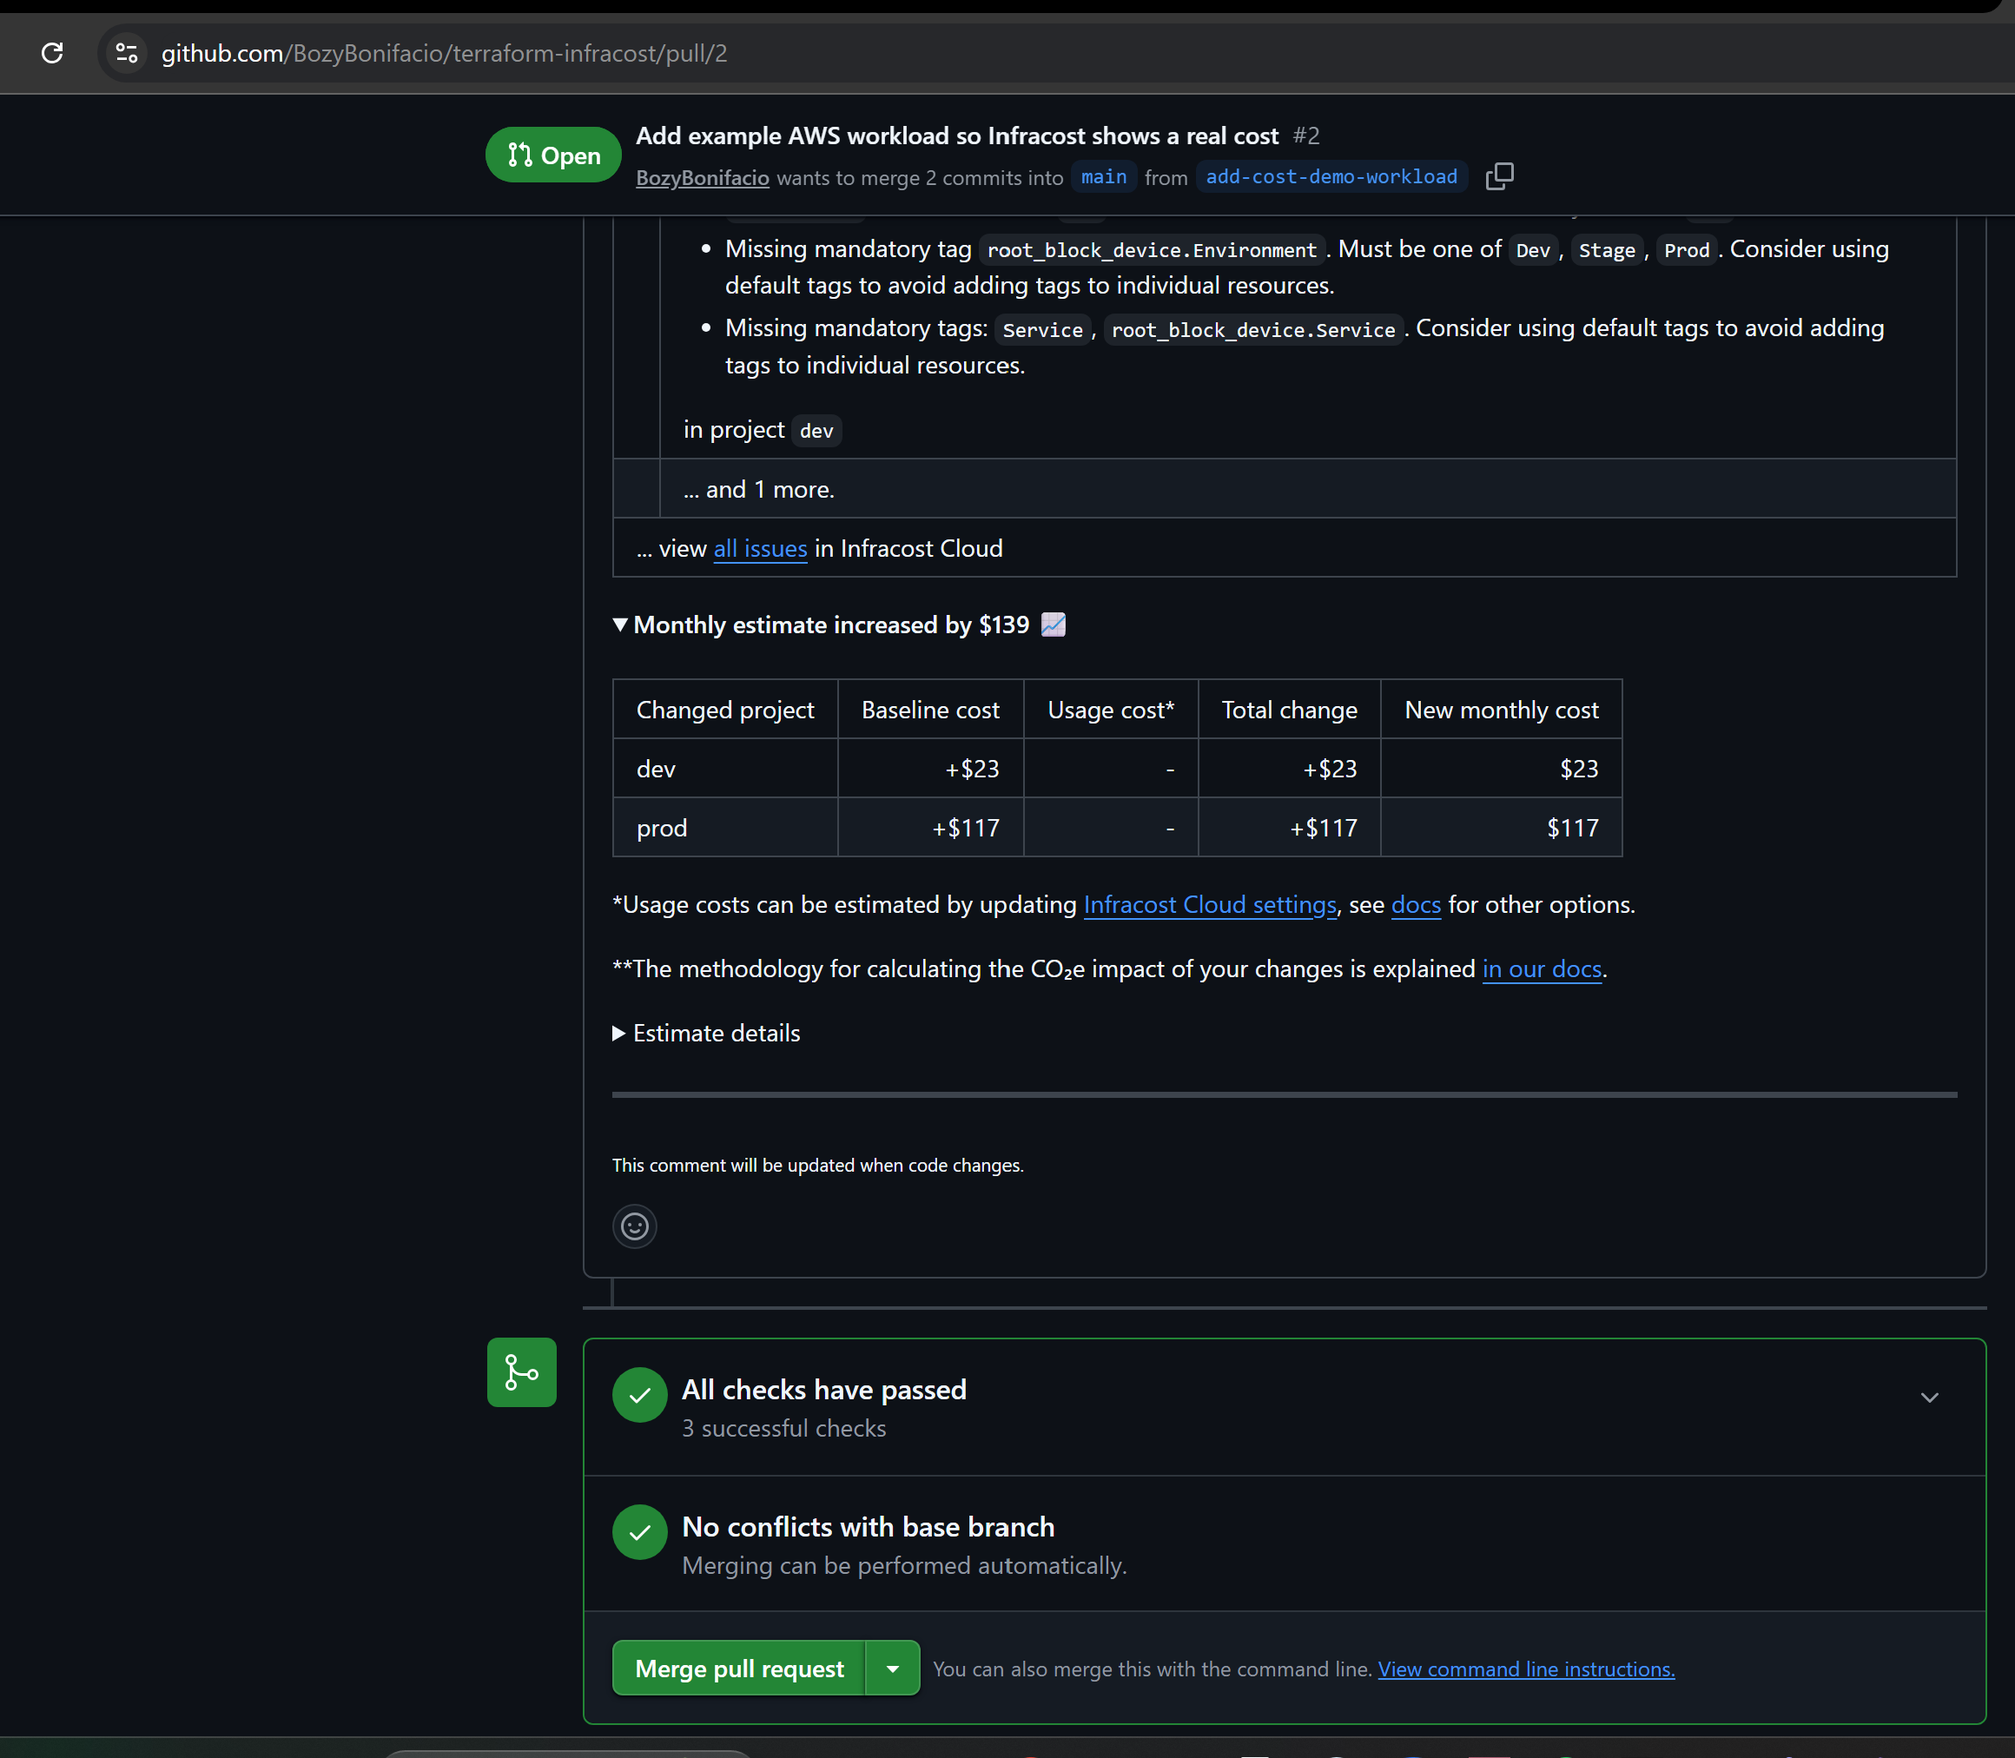
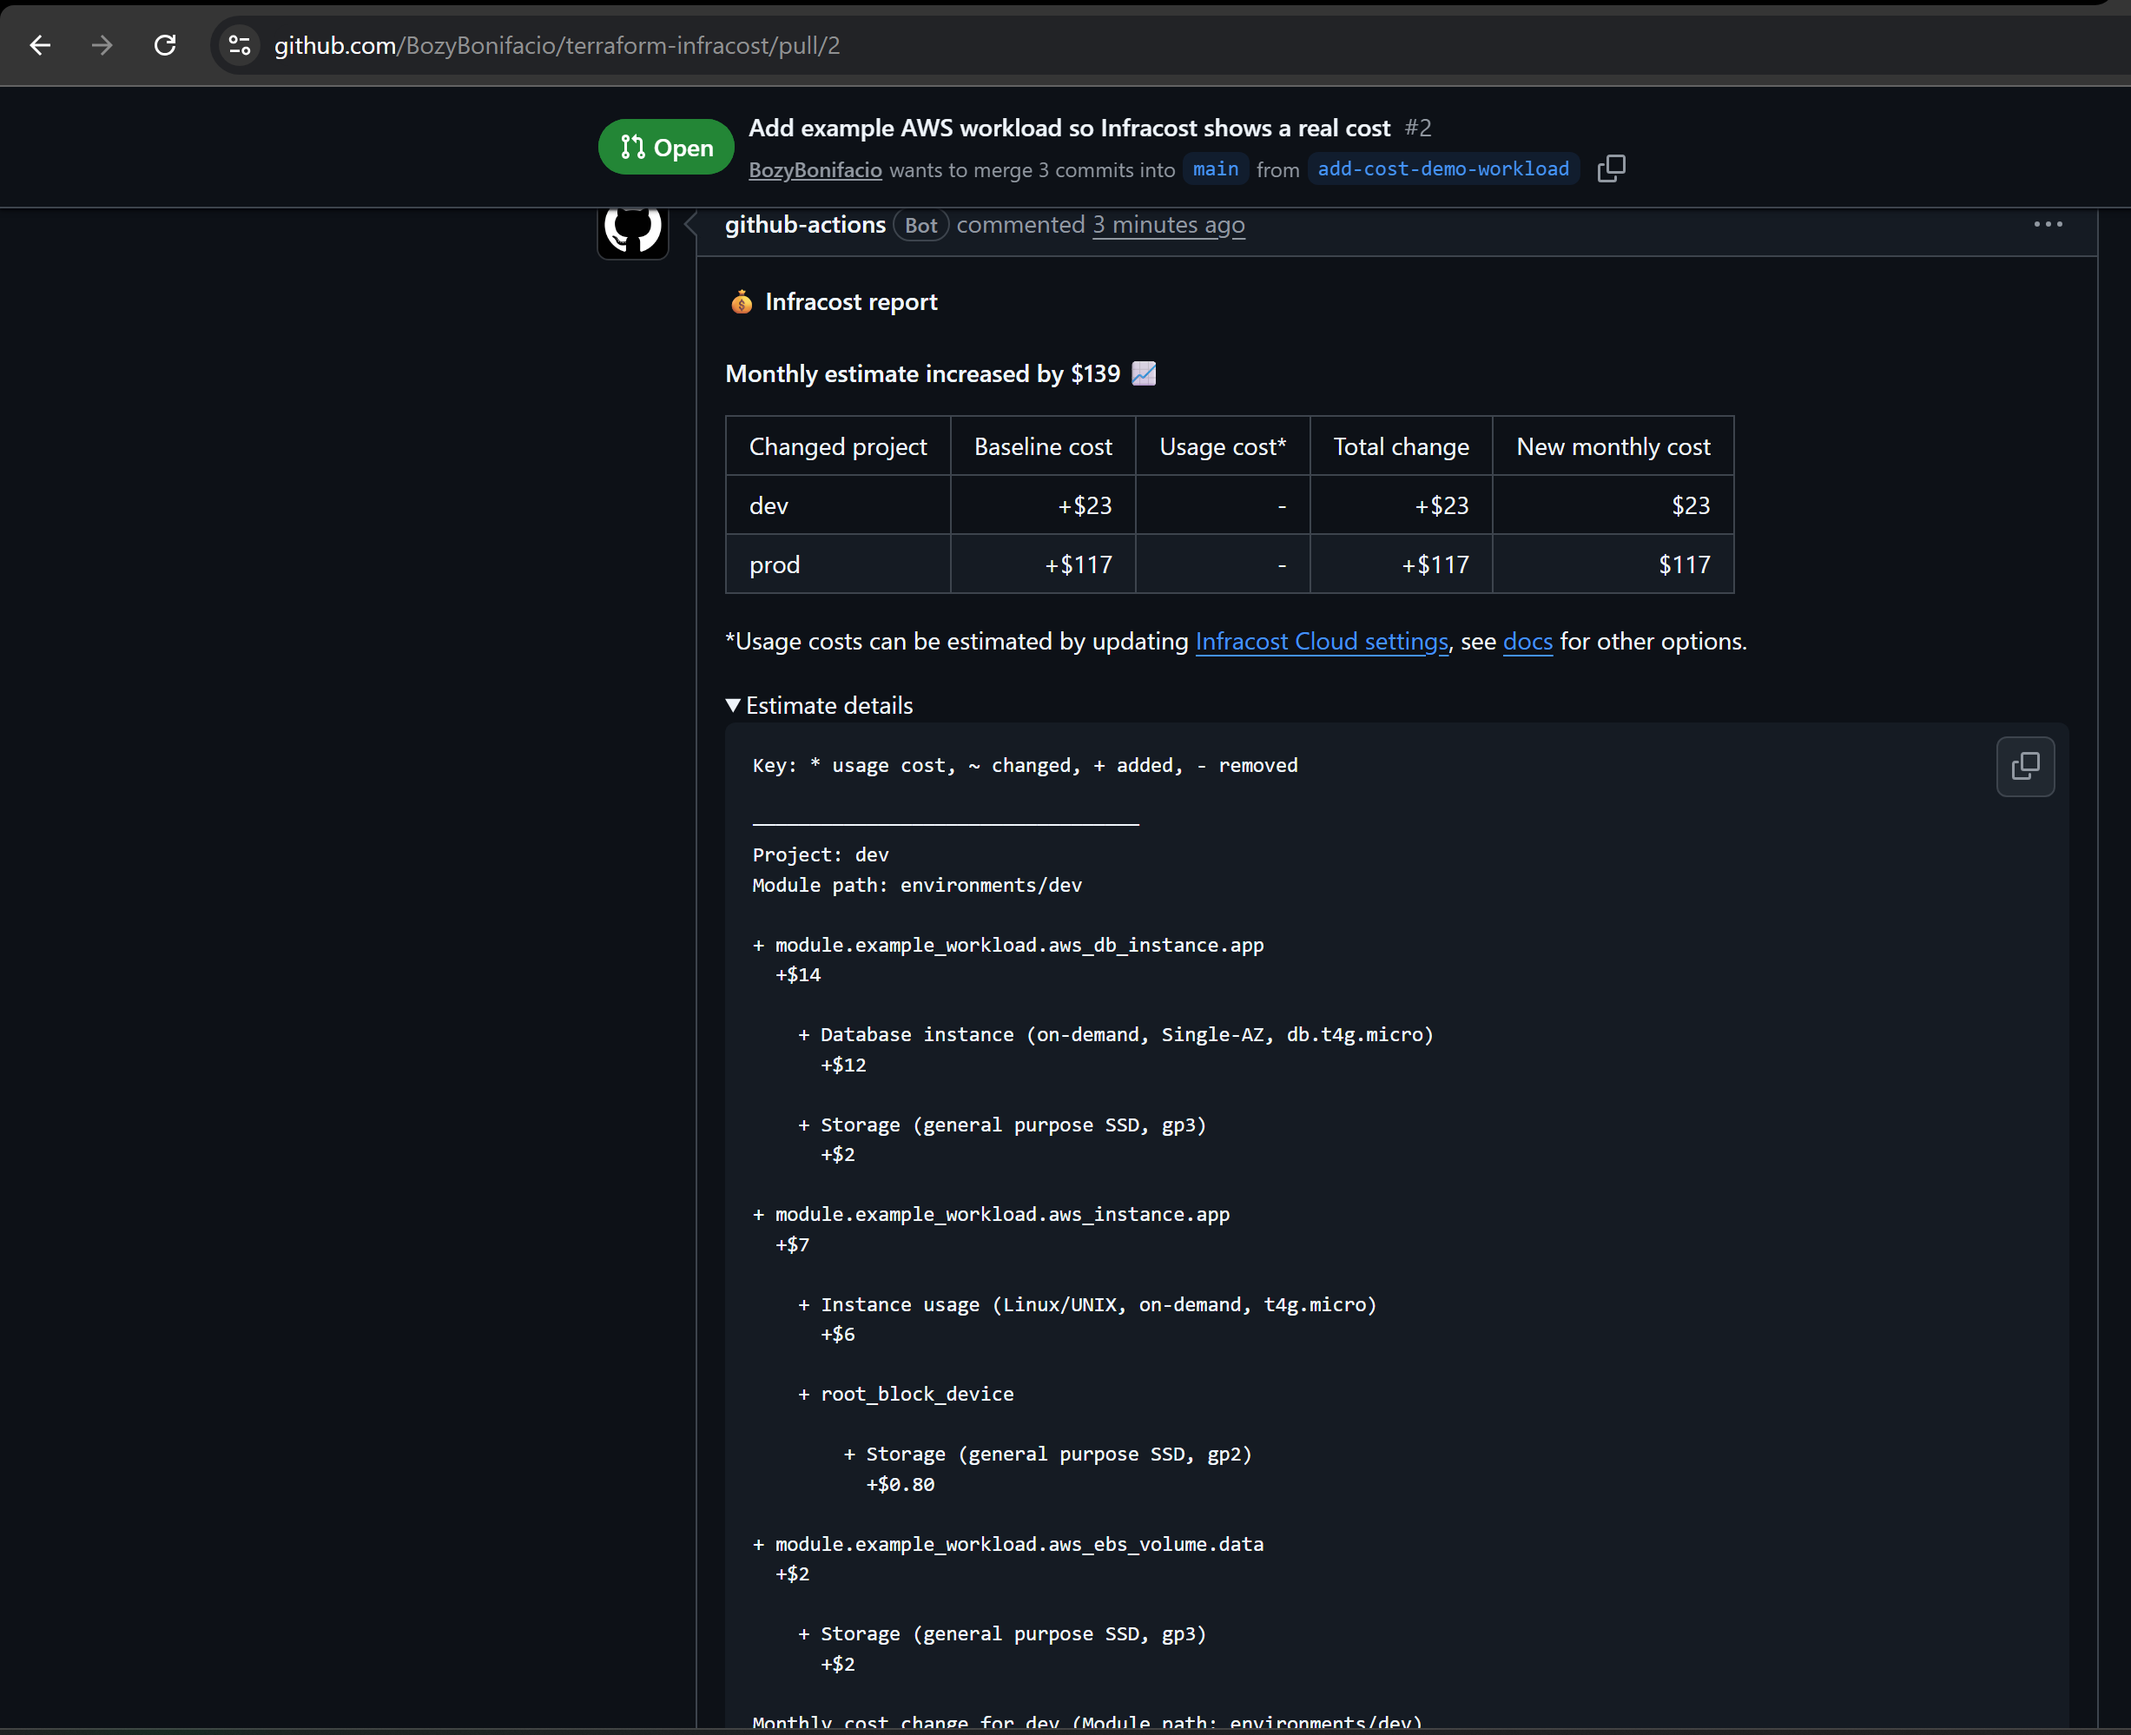
screenshot updates

diff --git a/projects.js b/projects.js
@@ -45,6 +45,92 @@ window.PROJECTS = [
           { t: "Plan: 7 to add, 0 to change, 0 to destroy.", c: "head" },
           { t: "" },
           { t: "✔ Plan saved to: tfplan", c: "ok" },
+          { t: "" },
+          { t: "$ infracost diff --path .", c: "cmd" },
+          { t: "" },
+          { t: "Key: * usage cost, ~ changed, + added, - removed", c: "dim" },
+          { t: "" },
+          { t: "──────────────────────────────────", c: "dim" },
+          { t: "Project: dev", c: "head" },
+          { t: "Module path: environments/dev", c: "dim" },
+          { t: "" },
+          { t: "+ module.example_workload.aws_db_instance.app", c: "add" },
+          { t: "  +$14", c: "add" },
+          { t: "" },
+          { t: "    + Database instance (on-demand, Single-AZ, db.t4g.micro)", c: "add" },
+          { t: "      +$12", c: "add" },
+          { t: "" },
+          { t: "    + Storage (general purpose SSD, gp3)", c: "add" },
+          { t: "      +$2", c: "add" },
+          { t: "" },
+          { t: "+ module.example_workload.aws_instance.app", c: "add" },
+          { t: "  +$7", c: "add" },
+          { t: "" },
+          { t: "    + Instance usage (Linux/UNIX, on-demand, t4g.micro)", c: "add" },
+          { t: "      +$6", c: "add" },
+          { t: "" },
+          { t: "    + root_block_device", c: "add" },
+          { t: "" },
+          { t: "        + Storage (general purpose SSD, gp2)", c: "add" },
+          { t: "          +$0.80", c: "add" },
+          { t: "" },
+          { t: "+ module.example_workload.aws_ebs_volume.data", c: "add" },
+          { t: "  +$2", c: "add" },
+          { t: "" },
+          { t: "    + Storage (general purpose SSD, gp3)", c: "add" },
+          { t: "      +$2", c: "add" },
+          { t: "" },
+          { t: "Monthly cost change for dev (Module path: environments/dev)", c: "head" },
+          { t: "Amount:  +$23 ($0.00 → $23)", c: "ok" },
+          { t: "" },
+          { t: "──────────────────────────────────", c: "dim" },
+          { t: "Project: prod", c: "head" },
+          { t: "Module path: environments/prod", c: "dim" },
+          { t: "" },
+          { t: "+ module.example_workload.aws_db_instance.app", c: "add" },
+          { t: "  +$59", c: "add" },
+          { t: "" },
+          { t: "    + Database instance (on-demand, Single-AZ, db.t4g.medium)", c: "add" },
+          { t: "      +$47", c: "add" },
+          { t: "" },
+          { t: "    + Storage (general purpose SSD, gp3)", c: "add" },
+          { t: "      +$12", c: "add" },
+          { t: "" },
+          { t: "+ module.example_workload.aws_instance.app", c: "add" },
+          { t: "  +$50", c: "add" },
+          { t: "" },
+          { t: "    + Instance usage (Linux/UNIX, on-demand, t4g.large)", c: "add" },
+          { t: "      +$49", c: "add" },
+          { t: "" },
+          { t: "    + root_block_device", c: "add" },
+          { t: "" },
+          { t: "        + Storage (general purpose SSD, gp2)", c: "add" },
+          { t: "          +$0.80", c: "add" },
+          { t: "" },
+          { t: "+ module.example_workload.aws_ebs_volume.data", c: "add" },
+          { t: "  +$8", c: "add" },
+          { t: "" },
+          { t: "    + Storage (general purpose SSD, gp3)", c: "add" },
+          { t: "      +$8", c: "add" },
+          { t: "" },
+          { t: "Monthly cost change for prod (Module path: environments/prod)", c: "head" },
+          { t: "Amount:  +$117 ($0.00 → $117)", c: "ok" },
+          { t: "" },
+          { t: "──────────────────────────────────", c: "dim" },
+          { t: "Key: * usage cost, ~ changed, + added, - removed", c: "dim" },
+          { t: "" },
+          { t: "*Usage costs can be estimated by updating Infracost Cloud settings, see docs for other options.", c: "dim" },
+          { t: "" },
+          { t: "6 cloud resources were detected:", c: "head" },
+          { t: "∙ 6 were estimated", c: "dim" },
+          { t: "" },
+          { t: "Infracost estimate: Monthly estimate increased by $139 ↑", c: "warn" },
+          { t: "┏━━━━━━━━━━━━━━━━━━┳━━━━━━━━━━━━━━━┳━━━━━━━━━━━━━┳━━━━━━━━━━━━━━┓", c: "dim" },
+          { t: "┃ Changed project  ┃ Baseline cost ┃ Usage cost* ┃ Total change ┃", c: "head" },
+          { t: "┣━━━━━━━━━━━━━━━━━━╋━━━━━━━━━━━━━━━╋━━━━━━━━━━━━━╋━━━━━━━━━━━━━━┫", c: "dim" },
+          { t: "┃ dev              ┃          +$23 ┃           - ┃         +$23 ┃", c: "add" },
+          { t: "┃ prod             ┃         +$117 ┃           - ┃        +$117 ┃", c: "add" },
+          { t: "┗━━━━━━━━━━━━━━━━━━┻━━━━━━━━━━━━━━━┻━━━━━━━━━━━━━┻━━━━━━━━━━━━━━┛", c: "dim" },
         ],
       },
     ],
